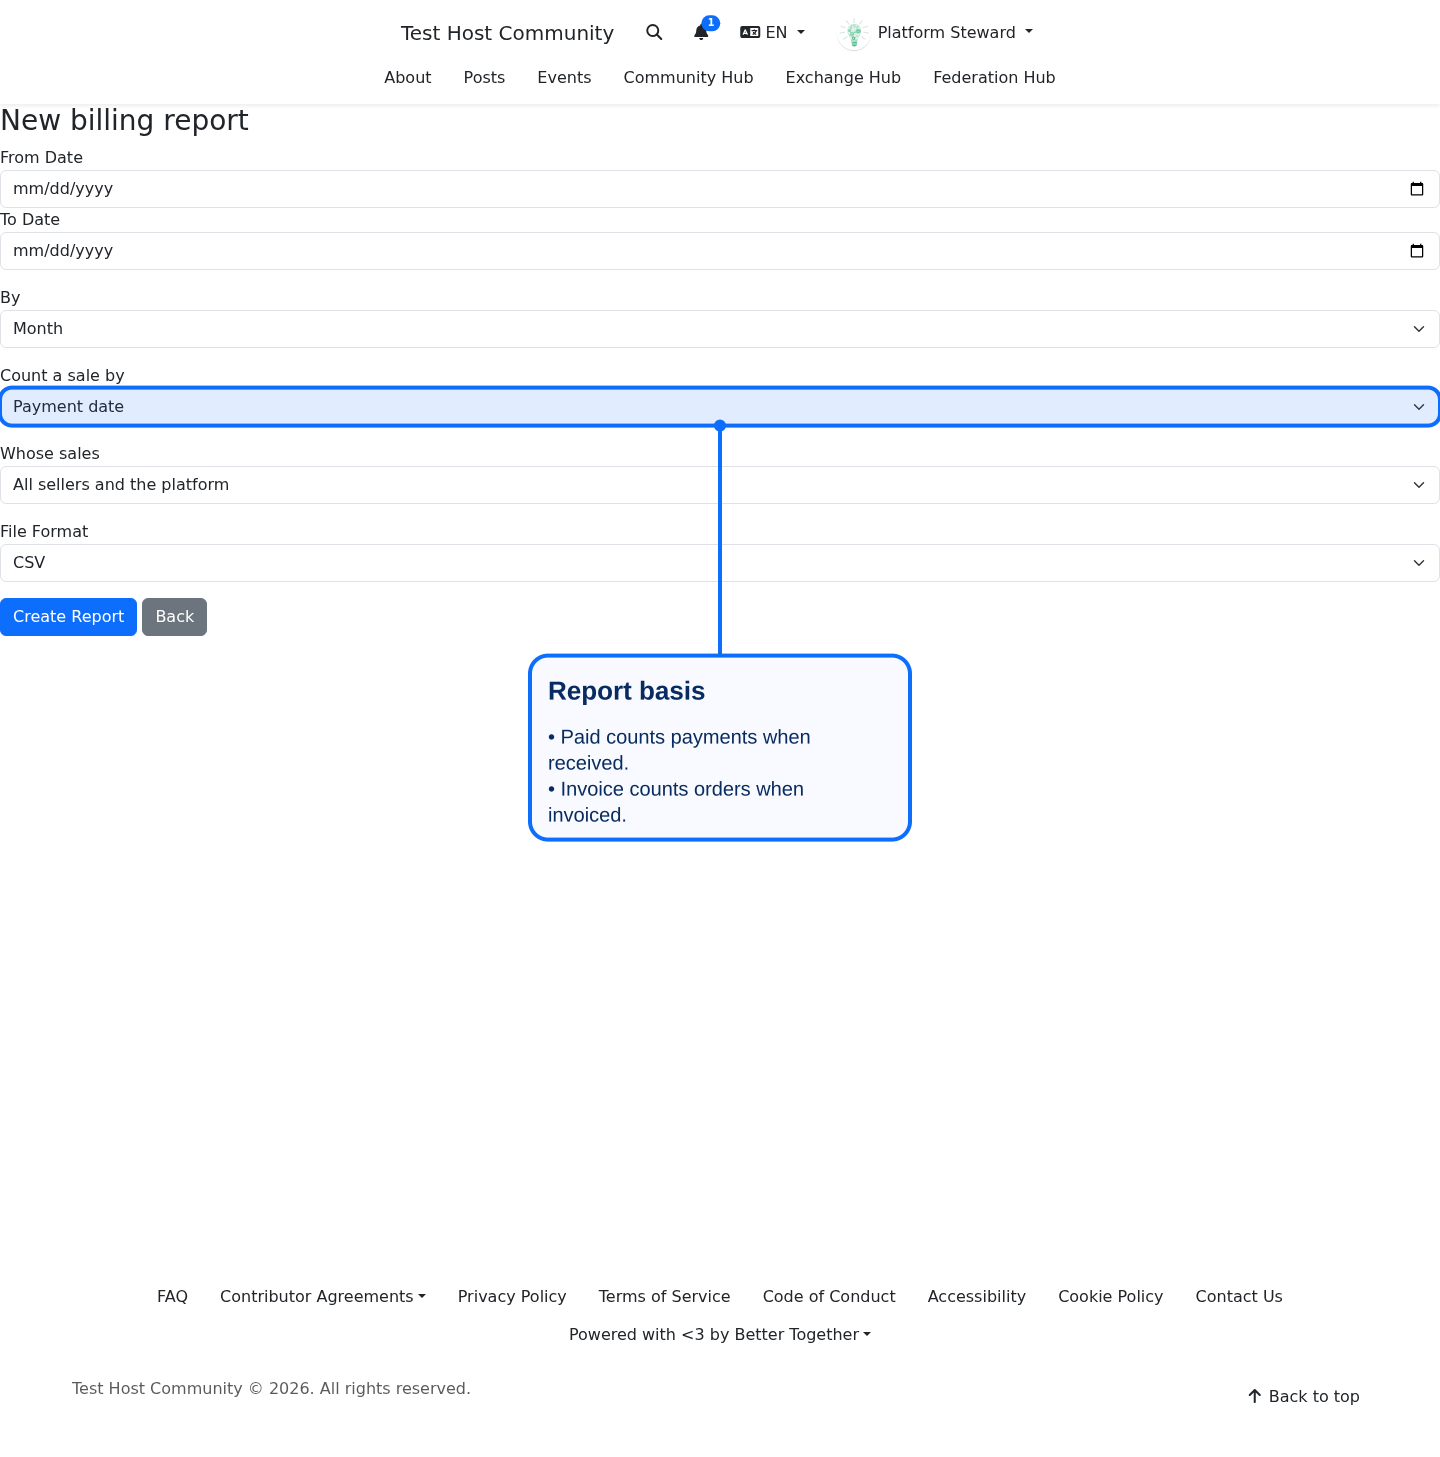
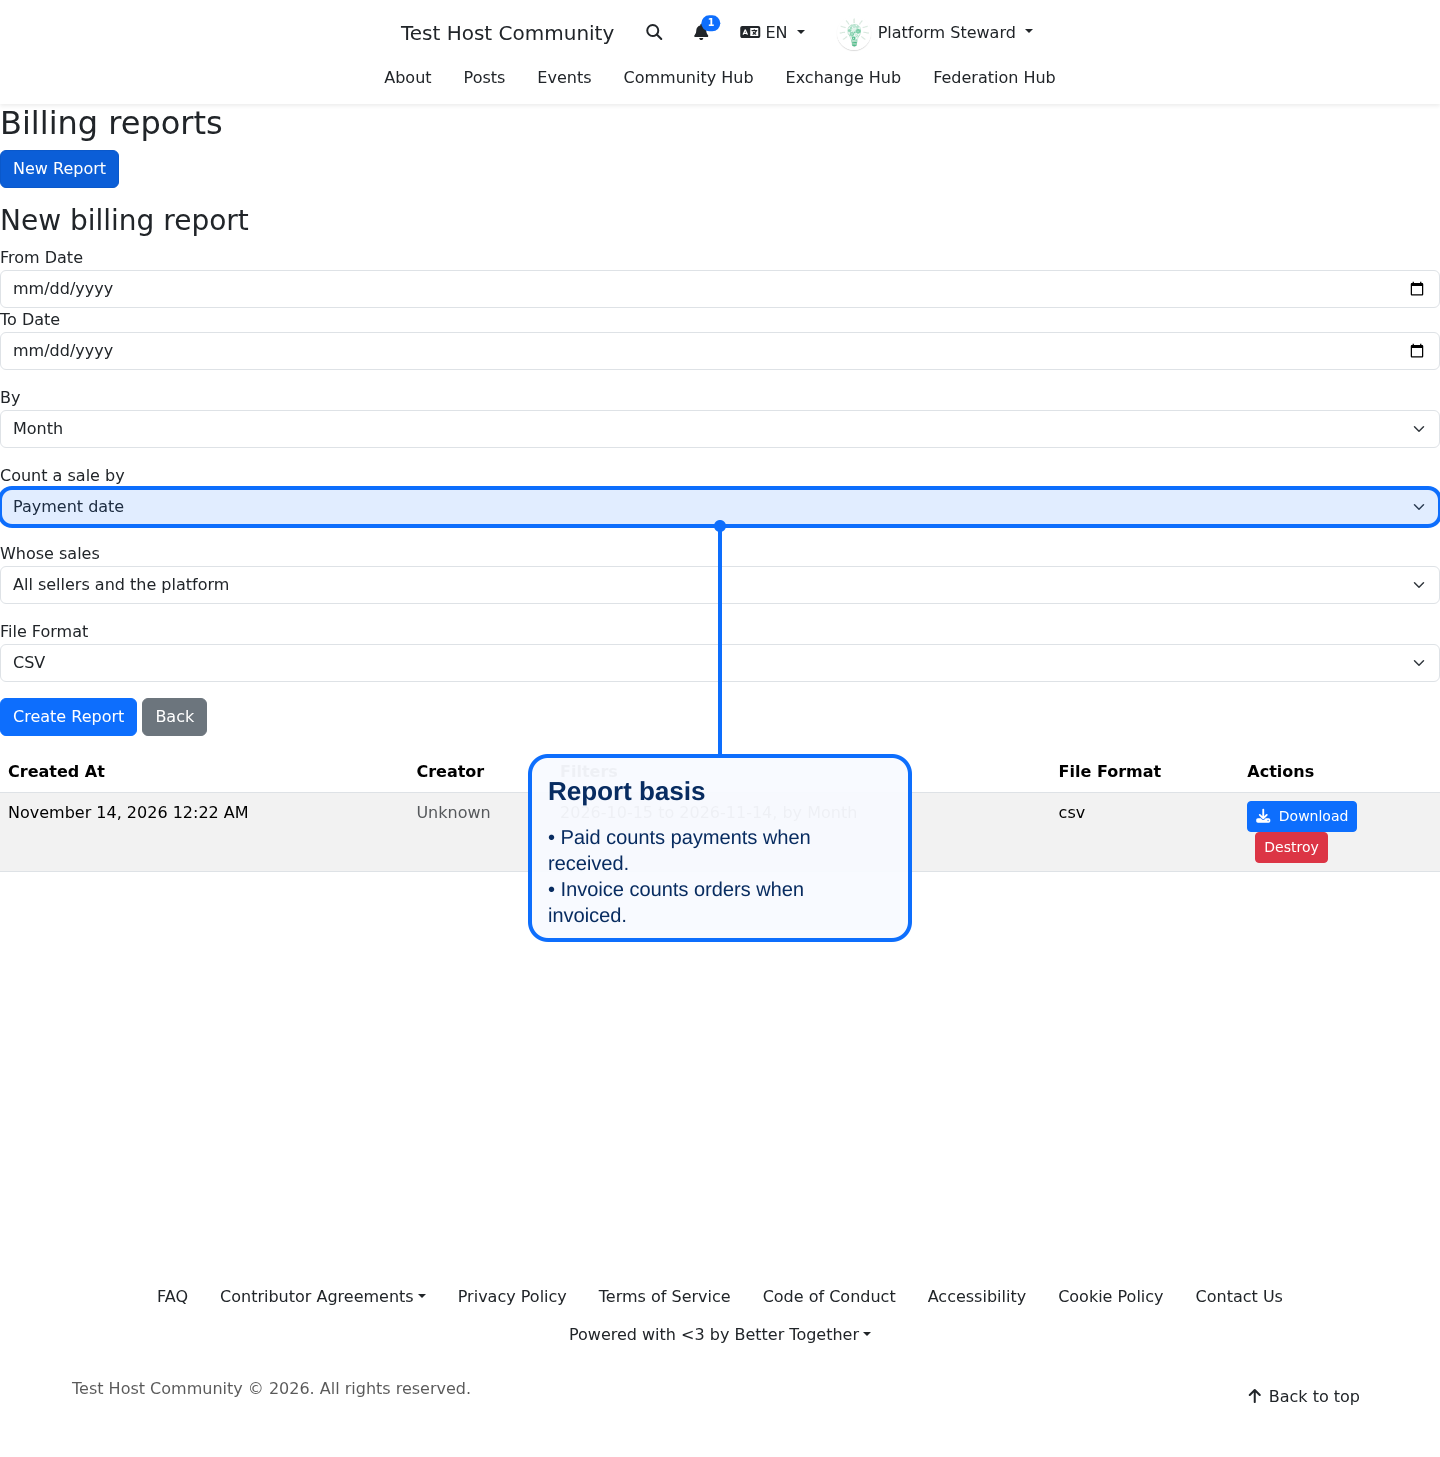
docs(billing): show the new tax report form in place in the reports section
The screenshot now opens the form from the reports page, as a person sees it, instead of visiting the standalone new route.

diff --git a/spec/docs_screenshots/better_together/billing_tax_reports_spec.rb b/spec/docs_screenshots/better_together/billing_tax_reports_spec.rb
@@ -108,8 +108,10 @@ RSpec.describe 'Documentation screenshots for the billing tax reports', # ruboco
                                               bullets: ['Paid counts payments when received.', 'Invoice counts orders when invoiced.'] }]
     ) do
       capybara_login_as_platform_manager
-      visit "/#{I18n.default_locale}/host/metrics/billing_reports/new"
-      expect(page).to have_css('#billing-report-basis')
+      # In place, as a person sees it: the form opens in the reports section of the metrics page.
+      visit "/#{I18n.default_locale}/host/metrics/billing_reports"
+      find('#billing-report-new-link').click
+      expect(page).to have_css('turbo-frame#new_billing_report #billing-report-basis')
       scroll_to(find('#billing-report-basis'), align: :center)
     end
   end
